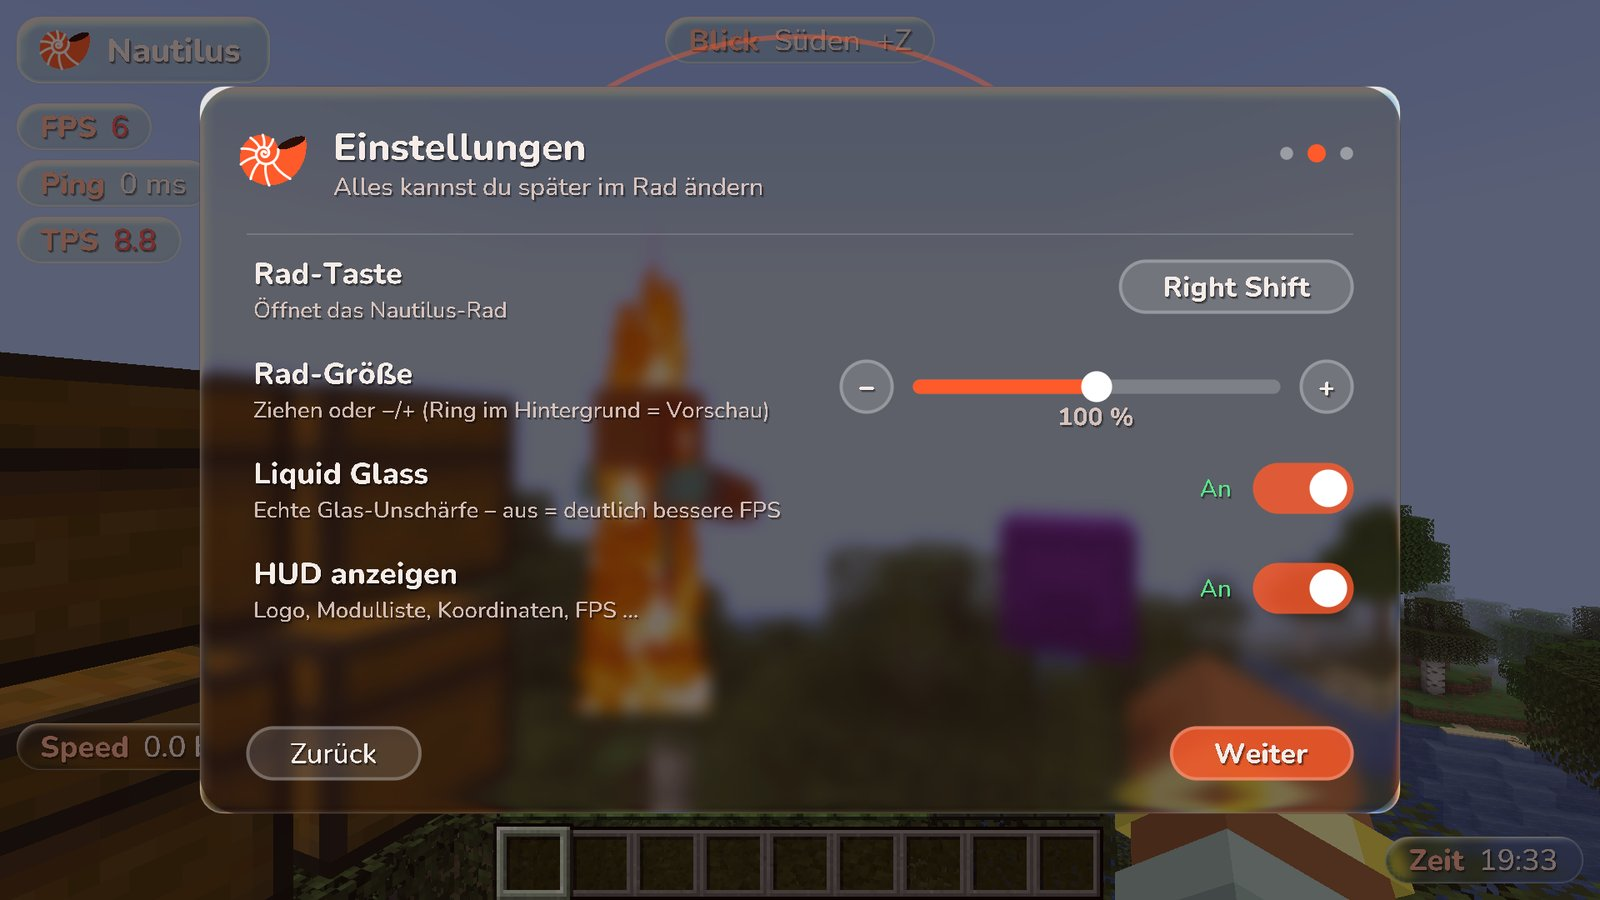
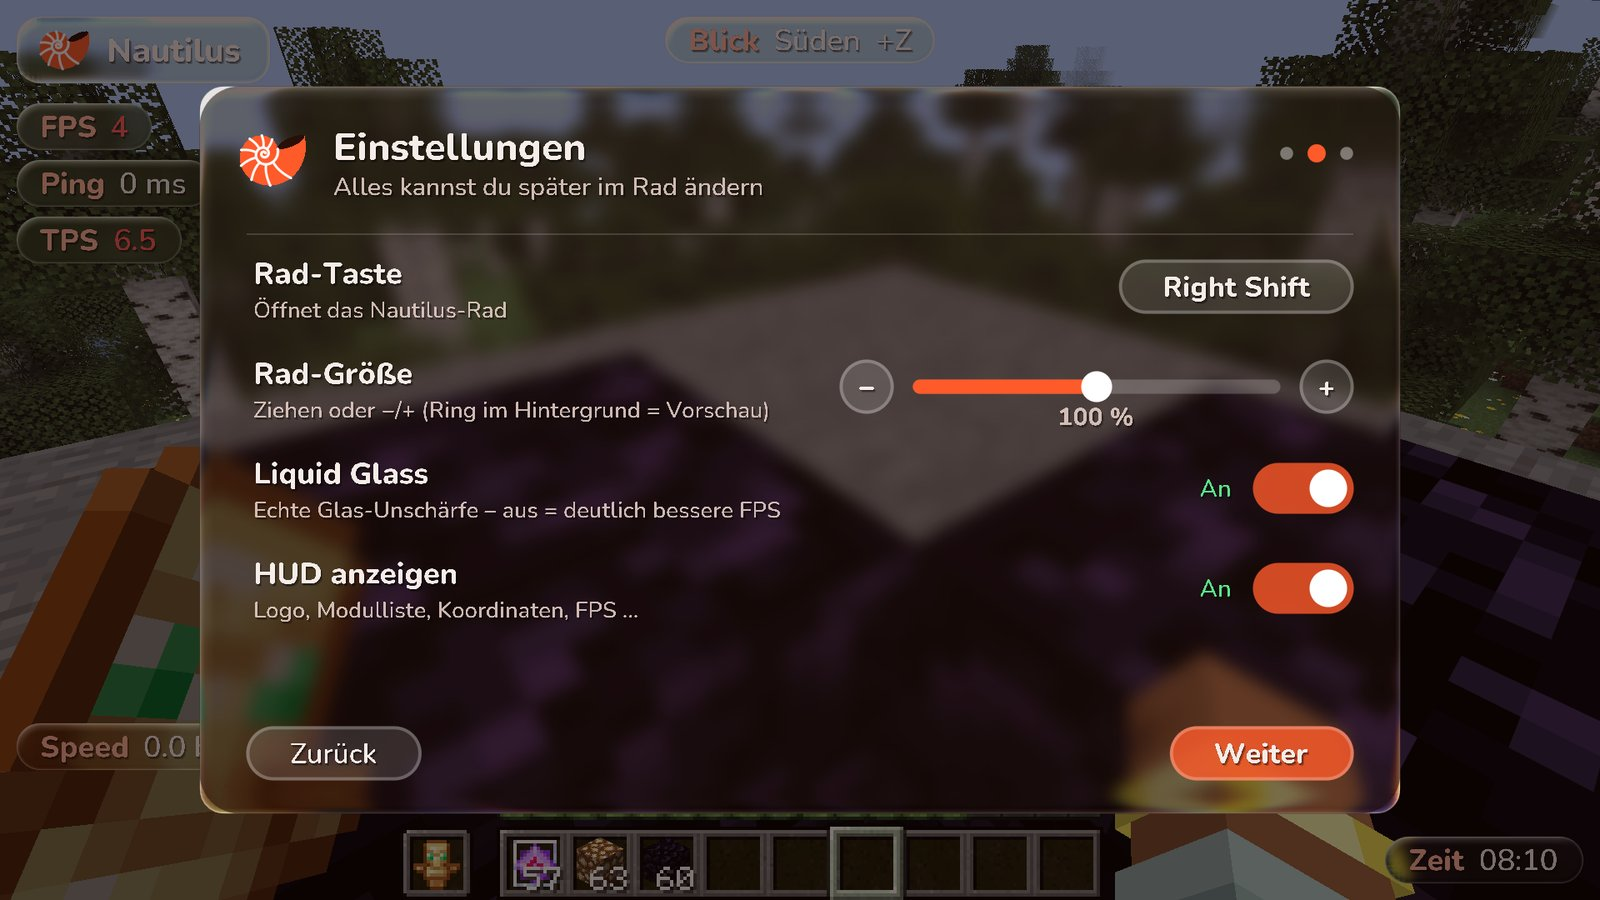
Website + README: new screenshots with the settings panel and the search
Fresh local game test runs with and without liquid glass. Gallery (both
tabs): wheel, combat modules, settings panel with presets, search in the
wheel, BaseFinder ESP, XRay, HUD, HUD editor, first-start setup.

Claude-Session: https://claude.ai/code/session_01MUPP6xyBrLshdfKoFcAUtC

diff --git a/site/index.html b/site/index.html
@@ -132,24 +132,24 @@
       <div class="gallery" data-set="glass">
         <button class="shot glass" data-src="assets/shots/glass/wheel.jpg"><img src="assets/shots/glass/wheel.jpg" alt="The wheel" loading="lazy"><span>The wheel</span></button>
         <button class="shot glass" data-src="assets/shots/glass/combat.jpg"><img src="assets/shots/glass/combat.jpg" alt="Combat modules" loading="lazy"><span>Combat modules</span></button>
-        <button class="shot glass" data-src="assets/shots/glass/basefinder.jpg"><img src="assets/shots/glass/basefinder.jpg" alt="Settings in the wheel" loading="lazy"><span>Settings in the wheel</span></button>
+        <button class="shot glass" data-src="assets/shots/glass/settings.jpg"><img src="assets/shots/glass/settings.jpg" alt="Settings panel with presets" loading="lazy"><span>Settings panel with presets</span></button>
+        <button class="shot glass" data-src="assets/shots/glass/search.jpg"><img src="assets/shots/glass/search.jpg" alt="Search in the wheel" loading="lazy"><span>Search in the wheel</span></button>
         <button class="shot glass" data-src="assets/shots/glass/basefinder-esp.jpg"><img src="assets/shots/glass/basefinder-esp.jpg" alt="BaseFinder (ESP through walls)" loading="lazy"><span>BaseFinder (ESP through walls)</span></button>
         <button class="shot glass" data-src="assets/shots/glass/xray.jpg"><img src="assets/shots/glass/xray.jpg" alt="XRay" loading="lazy"><span>XRay</span></button>
         <button class="shot glass" data-src="assets/shots/glass/hud-all.jpg"><img src="assets/shots/glass/hud-all.jpg" alt="HUD" loading="lazy"><span>HUD</span></button>
         <button class="shot glass" data-src="assets/shots/glass/hud-editor.jpg"><img src="assets/shots/glass/hud-editor.jpg" alt="HUD editor" loading="lazy"><span>HUD editor</span></button>
-        <button class="shot glass" data-src="assets/shots/glass/onboarding-1.jpg"><img src="assets/shots/glass/onboarding-1.jpg" alt="First-start setup" loading="lazy"><span>First-start setup</span></button>
-        <button class="shot glass" data-src="assets/shots/glass/onboarding-2.jpg"><img src="assets/shots/glass/onboarding-2.jpg" alt="Setup: settings" loading="lazy"><span>Setup: settings</span></button>
+        <button class="shot glass" data-src="assets/shots/glass/onboarding-2.jpg"><img src="assets/shots/glass/onboarding-2.jpg" alt="First-start setup" loading="lazy"><span>First-start setup</span></button>
       </div>
       <div class="gallery" data-set="noglass" hidden>
         <button class="shot glass" data-src="assets/shots/noglass/wheel.jpg"><img src="assets/shots/noglass/wheel.jpg" alt="The wheel" loading="lazy"><span>The wheel</span></button>
         <button class="shot glass" data-src="assets/shots/noglass/combat.jpg"><img src="assets/shots/noglass/combat.jpg" alt="Combat modules" loading="lazy"><span>Combat modules</span></button>
-        <button class="shot glass" data-src="assets/shots/noglass/basefinder.jpg"><img src="assets/shots/noglass/basefinder.jpg" alt="Settings in the wheel" loading="lazy"><span>Settings in the wheel</span></button>
+        <button class="shot glass" data-src="assets/shots/noglass/settings.jpg"><img src="assets/shots/noglass/settings.jpg" alt="Settings panel with presets" loading="lazy"><span>Settings panel with presets</span></button>
+        <button class="shot glass" data-src="assets/shots/noglass/search.jpg"><img src="assets/shots/noglass/search.jpg" alt="Search in the wheel" loading="lazy"><span>Search in the wheel</span></button>
         <button class="shot glass" data-src="assets/shots/noglass/basefinder-esp.jpg"><img src="assets/shots/noglass/basefinder-esp.jpg" alt="BaseFinder (ESP through walls)" loading="lazy"><span>BaseFinder (ESP through walls)</span></button>
         <button class="shot glass" data-src="assets/shots/noglass/xray.jpg"><img src="assets/shots/noglass/xray.jpg" alt="XRay" loading="lazy"><span>XRay</span></button>
         <button class="shot glass" data-src="assets/shots/noglass/hud-all.jpg"><img src="assets/shots/noglass/hud-all.jpg" alt="HUD" loading="lazy"><span>HUD</span></button>
         <button class="shot glass" data-src="assets/shots/noglass/hud-editor.jpg"><img src="assets/shots/noglass/hud-editor.jpg" alt="HUD editor" loading="lazy"><span>HUD editor</span></button>
-        <button class="shot glass" data-src="assets/shots/noglass/onboarding-1.jpg"><img src="assets/shots/noglass/onboarding-1.jpg" alt="First-start setup" loading="lazy"><span>First-start setup</span></button>
-        <button class="shot glass" data-src="assets/shots/noglass/onboarding-2.jpg"><img src="assets/shots/noglass/onboarding-2.jpg" alt="Setup: settings" loading="lazy"><span>Setup: settings</span></button>
+        <button class="shot glass" data-src="assets/shots/noglass/onboarding-2.jpg"><img src="assets/shots/noglass/onboarding-2.jpg" alt="First-start setup" loading="lazy"><span>First-start setup</span></button>
       </div>
     </section>
 
